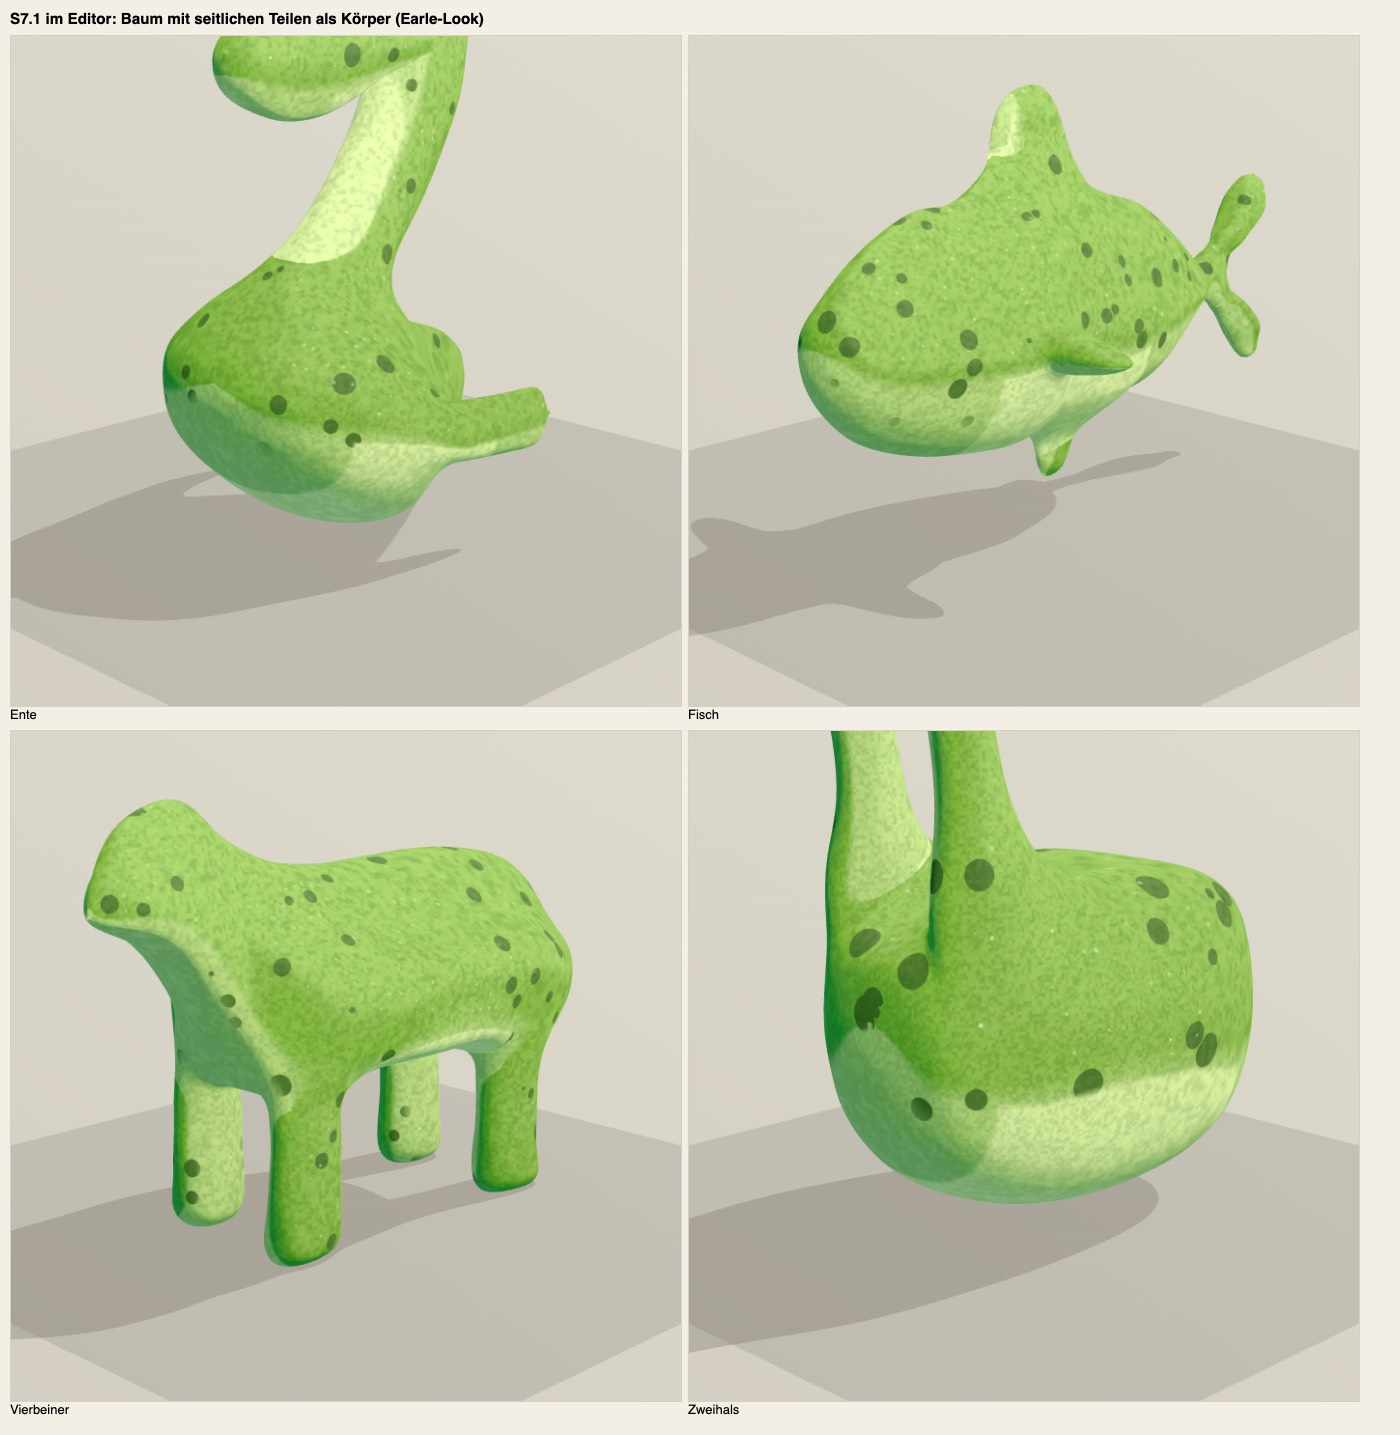
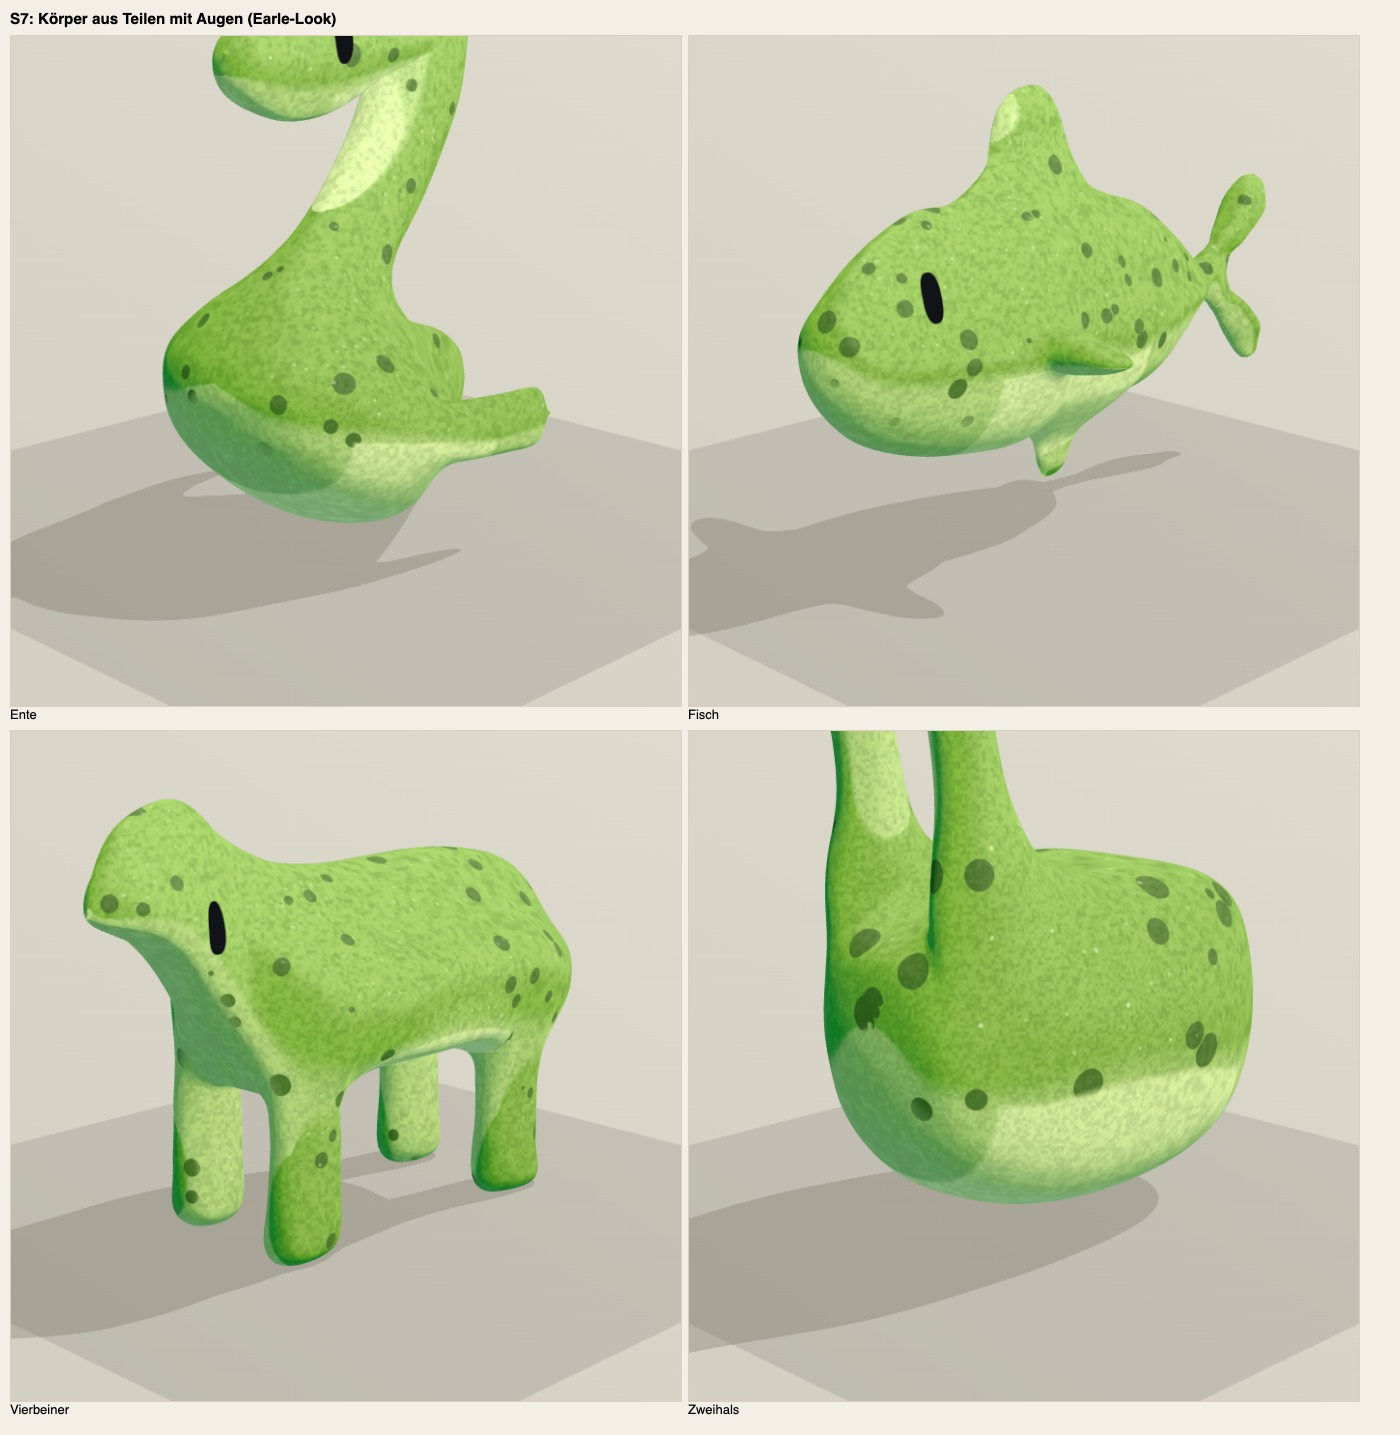
S7 Augen auf dem Baum: gewählt wie auf der Röhre (Ring und Winkel bzw. gesetzter Punkt), auf die Haut des Baums gelegt; Augapfel dort als Glubschauge (die Höhle braucht den Röhren-Käfig)
Bild der Bühne mit Augen nachgeführt (Ente, Fisch, Vierbeiner, Zweihals); s7-editor.mjs grün.

diff --git a/packages/shape/src/kern/wesen.ts b/packages/shape/src/kern/wesen.ts
@@ -1316,6 +1316,33 @@ export function wesenBauen(dokEingabe: Dokument, planRoh: Partial<Bauplan>, stan
       }
       const kaefigNetz = kaefigB ?? bn.zug.xyz;
       koerperBaum = bn.info;
+      // Augen: gewählt wie auf der Röhre (Ring und Winkel bzw. gesetzter Punkt), dann auf die Haut des Baums gelegt (nächste
+      // Ecke des gezeigten Netzes, ihre Normale). Der Augapfel braucht eine Höhle im Röhren-Käfig — auf dem Baum als Glubschauge
+      let augenB: Auge[] = [];
+      if (plan.earle || plan.stil === 'feuer' || plan.stil === 'gas') {
+        const wahl = plan.augen ?? { ring: 2, j: 2, groesse: 0.11 };
+        const flT = alleFlaechen(abl.unterteilung.stufen[abl.unterteilung.stufen.length - 1]!.kaefig);
+        const roh = augenAm(abl, flT, bn.hoehe, wahl.art === 'augapfel' ? { ...wahl, art: 'glubsch' } : wahl);
+        const P = bn.positionen;
+        const Nn = bn.normalen;
+        const aufHaut = (q: V3): { pos: V3; normale: V3 } => {
+          let best = 0;
+          let bd = Infinity;
+          for (let i = 0; i < P.length; i += 3) {
+            const d = (P[i]! - q[0]) ** 2 + (P[i + 1]! - q[1]) ** 2 + (P[i + 2]! - q[2]) ** 2;
+            if (d < bd) {
+              bd = d;
+              best = i;
+            }
+          }
+          const nl = Math.hypot(Nn[best]!, Nn[best + 1]!, Nn[best + 2]!) || 1;
+          return { pos: [P[best]!, P[best + 1]!, P[best + 2]!], normale: [Nn[best]! / nl, Nn[best + 1]! / nl, Nn[best + 2]! / nl] };
+        };
+        augenB = roh.map((a) => {
+          const h = aufHaut(a.pos);
+          return { ...a, pos: h.pos, normale: h.normale, posiert: h, ecke: -1 };
+        });
+      }
       // Widersprüche der Zeichnungen und Teile (aus den Zeichnungen, unabhängig vom Körper): genauer Bau neu, im Zug der letzte Stand
       let widerspruchB = stand?.widerspruch ?? null;
       let teileB = stand?.teile ?? null;
@@ -1343,7 +1370,7 @@ export function wesenBauen(dokEingabe: Dokument, planRoh: Partial<Bauplan>, stan
         normalen: bn.normalen.slice(),
         deskriptoren: stilB === 'feuer' || stilB === 'gas' ? null : bn.deskriptoren ? bn.deskriptoren.slice() : null,
         hoehe: bn.hoehe,
-        augen: [],
+        augen: augenB,
         kaefigLinien: null,
         kaefigFarben: null,
         lippenBand: 0,
